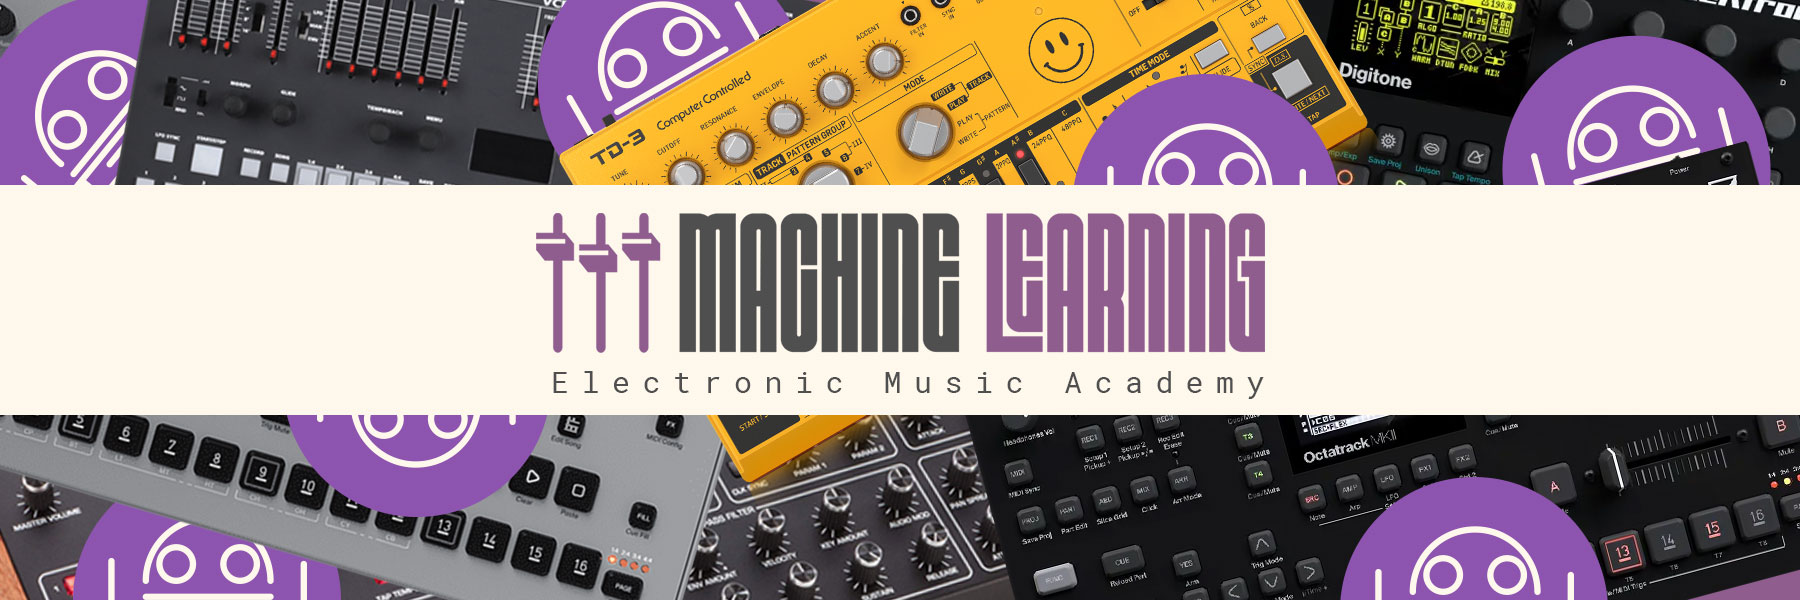
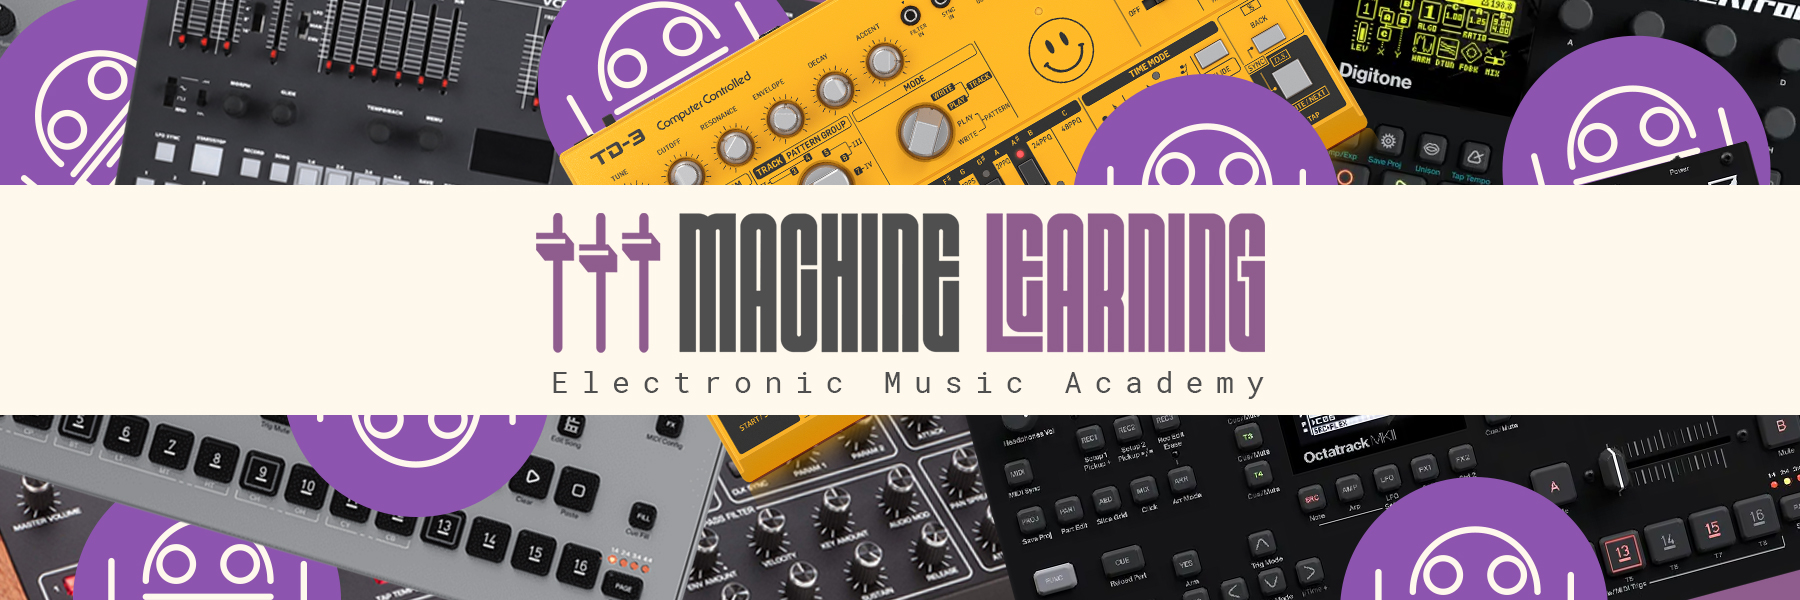
add new hero image

diff --git a/assets/css/style.css b/assets/css/style.css
@@ -62,9 +62,11 @@ li {
     .hero-main {
         margin: 20px 30px;
         height: 600px;
-        background-image: url(../images/MACHINE-LEARNING-HER0.jpg);
+        background-image: url(../images/MACHINE\ LEARNING\ HER02.png);
         background-position: center;
         position: relative;
+        background-size: cover;
+        background-repeat: no-repeat;
     }
 
     .about-grid {
@@ -75,6 +77,12 @@ li {
 
     .about-section {
         height: 500px;
+        height: 50%;
+        background-position: center;
+        background-repeat: no-repeat;
+        background-size: contain;
+        background-position-x: right;
+        background-position-y: bottom;
     }
 
     .side-image {
